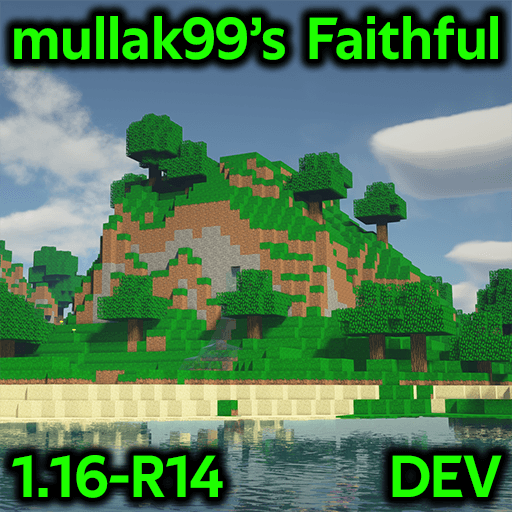
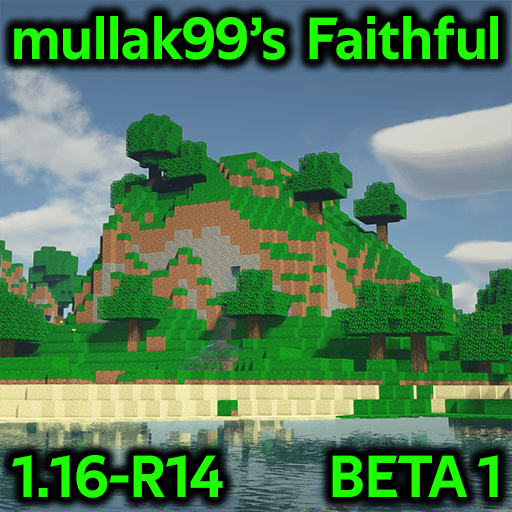
MC1.16-R14_BETA1
- Replaced Dolphin texture (EM32D)

Changed region(s): [[0.625, 0.8438, 1.0, 1.0]]

diff --git a/ChangeLog.md b/ChangeLog.md
@@ -3,7 +3,7 @@ All notable changes to mullak99's Faithful will be documented in this file.
 
 ## [Unreleased]
 ### Changed
-- Included changes / brought up-to-date with MC1.17-R5_DEV210825-1
+- Included changes / brought up-to-date with MC1.17-R5_BETA3
 
 ## [MC1.16-R13] - 2021-06-02
 ### Changed

diff --git a/README.md b/README.md
@@ -1,6 +1,6 @@
 # mullak99's Faithful 32x
 
-**Current Branch Version:** _MC1.16-R14_DEV210825-1_  
+**Current Branch Version:** _MC1.16-R14_BETA1_  
 
 ## Official Links
 
